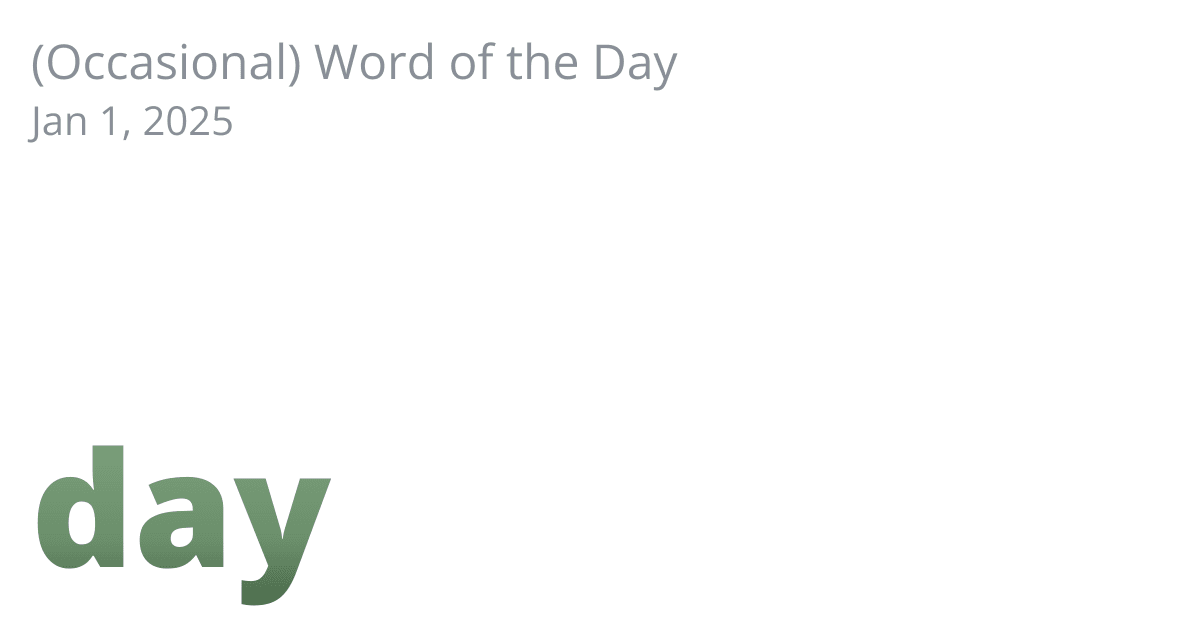
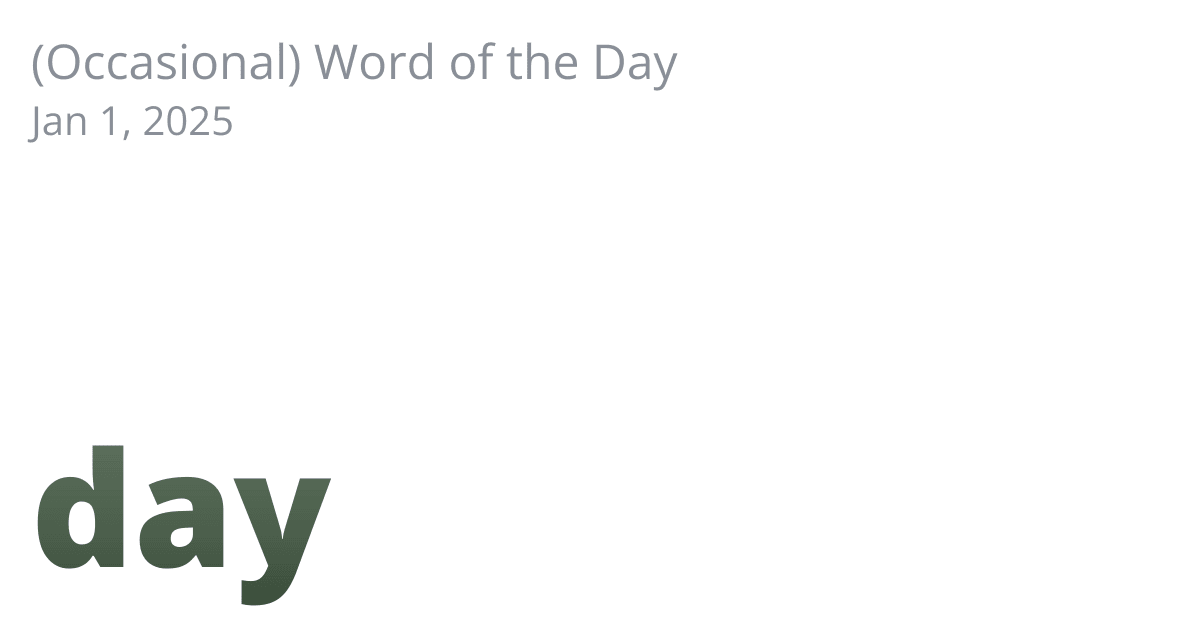
Update image generation logic

Changed region(s): [[0.0308, 0.6937, 0.2775, 0.9651]]

diff --git a/tools/generate-word-images.ts b/tools/generate-word-images.ts
@@ -1,10 +1,4 @@
-import fs from 'fs/promises';
-import path from 'path';
-import sharp from 'sharp';
-
-import { paths } from '~config/paths';
-
-import { getAllWords, isUsingDemoWords, generateShareImage, createWordSvg } from '~tools/utils';
+import { generateShareImage, getAllWords, isUsingDemoWords } from '~tools/utils';
 
 /**
  * Generates social share images for all words in the collection
@@ -13,30 +7,13 @@ import { getAllWords, isUsingDemoWords, generateShareImage, createWordSvg } from
 async function generateWordImages(): Promise<void> {
   const words = getAllWords();
   const usingDemo = isUsingDemoWords();
-  const baseOutputDir = usingDemo
-    ? path.join(paths.images, 'social', 'demo')
-    : path.join(paths.images, 'social');
 
   console.log(`Generating images for ${words.length} words (${usingDemo ? 'demo' : 'production'} mode)`);
 
   for (const word of words) {
-    const year = word.date.slice(0, 4);
-    const yearDir = path.join(baseOutputDir, year);
-    await fs.mkdir(yearDir, { recursive: true });
-
-    const svg = createWordSvg(word.word, word.date);
-    const outputPath = path.join(yearDir, `${word.date}-${word.word}.png`);
-
     try {
-      await sharp(Buffer.from(svg))
-        .png({
-          compressionLevel: 9,
-          palette: true,
-          quality: 90,
-          colors: 128,
-        })
-        .toFile(outputPath);
-      console.log(`Generated image for ${word.word} (${word.date}) in ${yearDir}`);
+      await generateShareImage(word.word, word.date);
+      console.log(`Generated image for ${word.word} (${word.date})`);
     } catch (error) {
       console.error(`Error generating image for ${word.word}:`, error);
     }

diff --git a/tools/ping-search-engines.ts b/tools/ping-search-engines.ts
@@ -179,7 +179,7 @@ async function pingAll(): Promise<void> {
   const results = await Promise.all(
     engineList.map(engineObj => pingSearchEngine(engineObj).catch(error => error)),
   );
-  
+
   results.forEach(result => {
     if (result.error) {
       console.error('Failed to ping search engine', { engine: result.engine, error: result.error });

diff --git a/tools/generate-word-data.ts b/tools/generate-word-data.ts
@@ -2,7 +2,6 @@ import fs from 'fs';
 
 import { getAdapter } from '~adapters/factory';
 import { paths } from '~config/paths';
-
 import { getAllWordFiles, getAllWords, updateWordFile } from '~tools/utils';
 import { generateWordDataHash } from '~utils/word-data-utils';
 

diff --git a/tools/generate-generic-images.ts b/tools/generate-generic-images.ts
@@ -1,5 +1,5 @@
-import { getStaticPages } from '~utils/page-utils';
 import { generateGenericShareImage } from '~tools/utils';
+import { getStaticPages } from '~utils/page-utils';
 import { getAvailableYears } from '~utils/word-data-utils';
 
 /**

diff --git a/tools/generate-page-image.ts b/tools/generate-page-image.ts
@@ -1,5 +1,5 @@
-import { getStaticPages } from '~utils/page-utils';
 import { generateGenericShareImage } from '~tools/utils';
+import { getStaticPages } from '~utils/page-utils';
 
 /**
  * Generates a social share image for a specific page
